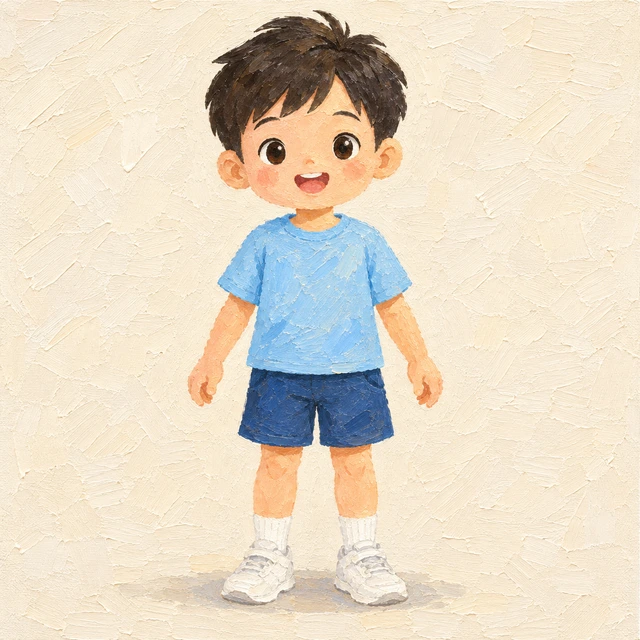
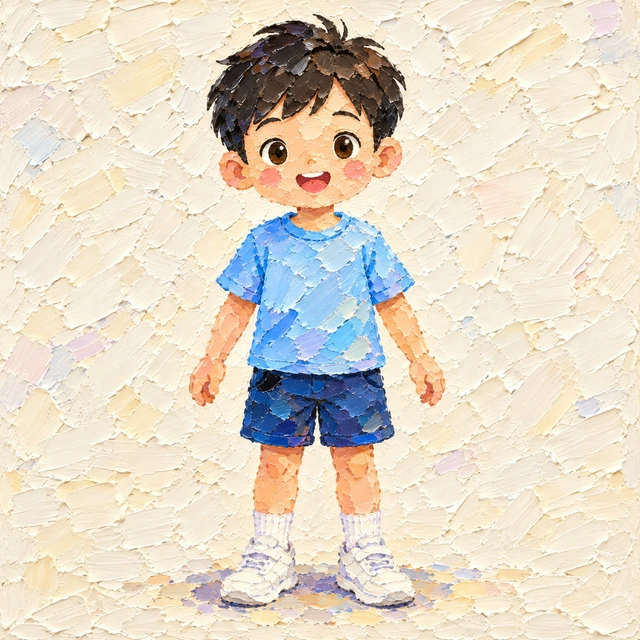
fix: match classic oil references to impasto painting style

diff --git a/apps/api-core/src/picture-books/picture-book-styles.ts b/apps/api-core/src/picture-books/picture-book-styles.ts
@@ -16,7 +16,7 @@ const presets = [
   ["line-sketch", "纯线素描", "黑白纯线素描，只用铅笔轮廓、排线与疏密线条塑造景物，不使用颜色。"],
   ["woodcut", "木刻版画", "大胆有力的木刻刀刻线条，黑色与少量套印色，清楚的木纹印痕。"],
   ["clay-stop-motion", "黏土定格", "黏土定格动画手工场景，微小捏制痕迹、微缩布景与柔和摄影灯光。"],
-  ["classic-oil","经典油画","经典油画的画布肌理与厚薄相间的油彩笔触，柔和明暗塑形，饱满协调的色彩。"],
+  ["classic-oil","经典油画","厚涂堆叠油彩、明显刮刀笔触与立体颜料肌理，鲜明冷暖对比的高饱和色块。"],
   ["pixel-art","像素艺术","清晰可见的方形像素与有限色板，像素块勾勒轮廓和光影，复古游戏般的童趣。"],
   ["monochrome-ink","黑白水墨","仅用黑、白、灰表现中国水墨，墨色浓淡、干湿笔触、宣纸晕染与富有节奏的留白。"],
   ["color-ink","彩色水墨","中国水墨笔法结合淡雅彩色晕染，灵动墨线、宣纸渗色、疏密留白和轻盈意境。"],

diff --git a/apps/api-core/src/picture-books/picture-book-character-assets.ts b/apps/api-core/src/picture-books/picture-book-character-assets.ts
@@ -24,8 +24,8 @@ export const officialCharacterImageUrls: Record<string, string> = {
   "girl/pen-watercolor": "https://r.abeiai.com/picture-books/20261003-4a0eacd9412ed195.webp",
   "girl/watercolor": "https://r.abeiai.com/picture-books/20261003-c76af29cbcb1ac35.webp",
   "girl/woodcut": "https://r.abeiai.com/picture-books/20261003-d158a7e7247f468e.webp",
-  "boy/classic-oil": "https://r.abeiai.com/picture-books/20261004-12a0cacfe817b9ea.webp",
-  "girl/classic-oil": "https://r.abeiai.com/picture-books/20261004-af1918d92dda49fe.webp",
+  "boy/classic-oil": "https://r.abeiai.com/picture-books/20261004-2671168ee310adff.webp",
+  "girl/classic-oil": "https://r.abeiai.com/picture-books/20261004-abe6e9581c5d7ef4.webp",
   "boy/pixel-art": "https://r.abeiai.com/picture-books/20261004-1bc88501902d1f77.webp",
   "girl/pixel-art": "https://r.abeiai.com/picture-books/20261004-a7c895e9e6f07254.webp",
   "boy/monochrome-ink": "https://r.abeiai.com/picture-books/20261004-cc7500ef15a70731.webp",

diff --git a/docs/picture-books/characters.md b/docs/picture-books/characters.md
@@ -31,6 +31,14 @@
 
 本次没有更新依赖、数据库结构、支付或权限流程，未运行 install、全量 lint、全量测试及数据库 migrate/seed。
 
+## 2026-10-04 经典油画参考更新
+
+依据用户提供的油画样图，重绘经典油画风格图及小男孩、小女孩两张角色图。采用堆叠厚油彩、刮刀笔触、立体颜料肌理及鲜明冷暖色块；风格图保留原有女孩、小狗的身份、服饰、姿势和森林布局，角色图保留原有正面全身居中的布局。
+
+参考原图保存于 `references/classic-oil-impasto.webp`；内置 imagegen 的实际生成提示词与输入参考路径记录于 `style-image-prompts.json`、`character-image-prompts.json`。三张成品均为640×640 WebP，R2归档地址更新于相应资产清单和官方角色 URL 映射。仅更新本地系统配置中 `classic-oil` 的描述与参考图，原配置备份于 `/tmp/abei-classic-oil-config-backup.json`。
+
+验证：`pnpm --filter @xueleai/web typecheck` 通过；风格、角色、风格参考测试44项通过；三张R2图片与本地SHA-256一致；Docker Web/API构建和容器健康检查通过；浏览器确认经典油画卡片和两张角色图加载新地址。截图：`/tmp/abei-classic-oil-picker.png`、`/tmp/abei-classic-oil-characters.png`。本次无 migration/seed，未更新依赖，未运行 install、全量 lint 或全量测试。
+
 ## 验证
 
 角色针对性测试覆盖风格变体选择、旧绘本图片快照、沟通提取及预选形象匹配、所有权、R2上传、同风格和身份图变更的并发保护。数据库 migration 先以真实数据库事务执行后回滚验证，再执行部署迁移。浏览器使用独立测试绘本验收选择、风格切换、上传、讨论提取、角色和页图生成。
